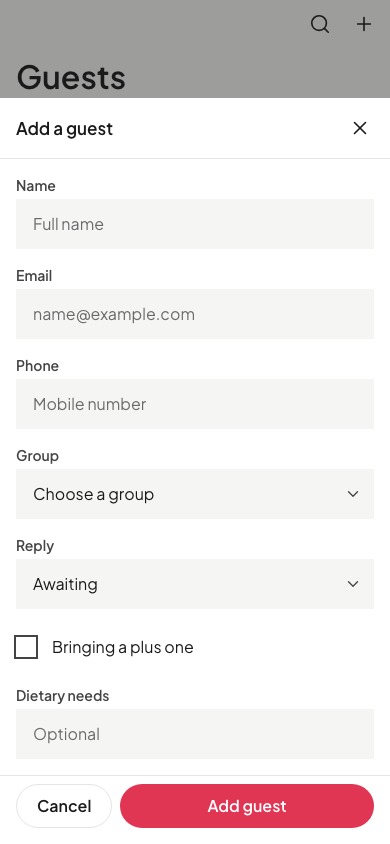
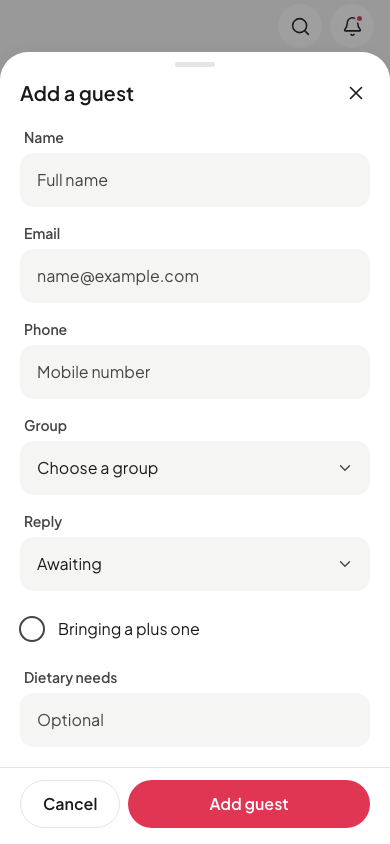
Mobile app goal 2, phase 6: fifty fresh screenshots, the coverage table, and the checks
mobile-screenshots/ is replaced with fifty 390x844 captures of every preview
screen, including the notification centre, the in-app banner over Home and
the push lock screen; the capture script now also fails on any box-shadow
other than the elevation token. MOBILE_APP.md gains the goal 2 section:
the coverage table with a mobile home for every desktop couple feature,
the image inventory with every public id and where it is used, the
notification architecture and what real push will need, the stubs, and
the decisions. Final scans over src/mobile: no uppercase, no emoji beyond
the Ava mark, no em dashes, no exclamation marks in copy, no gradient but
the photo scrim, no shadow but the token, no font but Plus Jakarta Sans,
no text lighter than #444444 on a light surface (the input placeholder
moved from #6B6B6B to #444444), and every stylesheet selector scoped
under .oi-mobile-root. Build, lint and the route-collision guard pass;
git diff main touches only the allowed existing files.

diff --git a/src/mobile/features/registry.js b/src/mobile/features/registry.js
@@ -72,7 +72,7 @@ export const FEATURES = [
     stat: (d) => (d.details?.foodBeverage?.serviceStyle ? d.details.foodBeverage.serviceStyle : 'Plan the menu') },
   { key: 'music', group: 'style', label: 'Music', icon: Music2, desktop: '/Music', path: 'music', kind: 'custom', depth: 'full', image: STILLS.music,
     stat: (d) => { const p = (d.songRequests || []).filter((r) => !r.status || r.status === 'pending').length; return p ? `${p} to review` : count(d.music, 'track'); } },
-  { key: 'photography', group: 'style', label: 'Photography', icon: Camera, desktop: '/Photography', path: 'photography', kind: 'details', depth: 'light',
+  { key: 'photography', group: 'style', label: 'Photography', icon: Camera, desktop: '/Photography', path: 'photography', kind: 'details', depth: 'light', image: STILLS.couple,
     stat: (d) => { const b = (d.vendors || []).filter((v) => ['photography', 'videography'].includes(v.category) && v.status === 'booked').length; return b ? `${b} booked` : 'Find a photographer'; } },
   { key: 'vows', group: 'style', label: 'Vows & speeches', icon: FileText, desktop: '/VowsSpeeches', path: 'vows', kind: 'entity', depth: 'full',
     stat: (d) => count(d.vows, 'draft') },
@@ -81,7 +81,7 @@ export const FEATURES = [
   // Vendors
   { key: 'vendors', group: 'vendors', label: 'My vendors', icon: Store, desktop: '/Vendors', path: 'vendors', kind: 'entity', depth: 'full',
     stat: (d) => { const b = (d.vendors || []).filter((v) => v.status === 'booked').length; return `${b} booked of ${n(d.vendors)}`; } },
-  { key: 'marketplace', group: 'vendors', label: 'Marketplace', icon: ShoppingBag, desktop: '/VendorMarketplace', path: 'marketplace', kind: 'custom', depth: 'light', stat: () => 'Search near you' },
+  { key: 'marketplace', group: 'vendors', label: 'Marketplace', icon: ShoppingBag, desktop: '/VendorMarketplace', path: 'marketplace', kind: 'custom', depth: 'light', image: STILLS.dance, stat: () => 'Search near you' },
   // On the day
   { key: 'ceremony', group: 'day', label: 'Ceremony details', icon: Heart, desktop: '/ceremony-details', path: 'ceremony', kind: 'details', depth: 'full', image: STILLS.ceremony,
     stat: (d) => (d.details?.celebrant?.name ? `With ${d.details.celebrant.name}` : 'Add your celebrant') },
@@ -94,7 +94,7 @@ export const FEATURES = [
   // Finances
   { key: 'budget', group: 'finances', label: 'Budget', icon: Wallet, desktop: '/Budget', path: 'budget', kind: 'custom', depth: 'full',
     stat: (d, symbol) => { const spent = (d.budget || []).reduce((s, i) => s + (i.actual_amount || 0), 0); const total = d.details?.budget?.total ? Number(d.details.budget.total) : (d.budget || []).reduce((s, i) => s + (i.budgeted_amount || 0), 0); return total ? `${money(total - spent, symbol)} left` : 'Set a total'; } },
-  { key: 'registry', group: 'finances', label: 'Registry', icon: Gift, desktop: '/Registry', path: 'registry', kind: 'custom', depth: 'full',
+  { key: 'registry', group: 'finances', label: 'Registry', icon: Gift, desktop: '/Registry', path: 'registry', kind: 'custom', depth: 'full', image: STILLS.gifts,
     stat: (d) => { const g = n(d.gifts); return g ? `${g} received` : `${n(d.registryItems) + n(d.registryProducts) + n(d.customGifts)} listed`; } },
   // Guest suite
   { key: 'studio', group: 'suite', label: 'Design studio', icon: Sparkles, desktop: '/studio', path: '../site', kind: 'custom', depth: 'view', stat: (d) => (d.details?.websiteEnabled ? 'Site is live' : 'Site is a draft') },

diff --git a/src/mobile/MobilePreviewApp.jsx b/src/mobile/MobilePreviewApp.jsx
@@ -262,7 +262,7 @@ function PreviewAccount() {
   const { base } = useContext(ShellContext);
   const [params] = useSearchParams();
   const native = params.get('native') === '1';
-  return <AccountScreen name={FIXTURE_USER.full_name} email={FIXTURE_USER.email} coupleName={`${FIXTURE_WEDDING.couple1Name} & ${FIXTURE_WEDDING.couple2Name}`} weddingDate={dateLong(FIXTURE_WEDDING.weddingDate)} photo={coupleImages(FIXTURE_WEDDING)[1]} planLabel="Pro" planNote={null} trialDaysLeft={null} showPurchases={!native} onUpgrade={() => {}} onDetails={() => {}} onEventDetails={() => navigate(`${base}/plan/event-details`)} onCollaborators={() => {}} onNotifications={() => {}} onNotificationSettings={() => navigate(`${base}/notifications/settings`)} onHelp={() => {}} onContact={() => {}} onLogout={() => {}} loading={false} />;
+  return <AccountScreen name={FIXTURE_USER.full_name} email={FIXTURE_USER.email} coupleName={`${FIXTURE_WEDDING.couple1Name} & ${FIXTURE_WEDDING.couple2Name}`} weddingDate={dateLong(FIXTURE_WEDDING.weddingDate)} photo={coupleImages(FIXTURE_WEDDING)[0]} planLabel="Pro" planNote={null} trialDaysLeft={null} showPurchases={!native} onUpgrade={() => {}} onDetails={() => {}} onEventDetails={() => navigate(`${base}/plan/event-details`)} onCollaborators={() => {}} onNotifications={() => {}} onNotificationSettings={() => navigate(`${base}/notifications/settings`)} onHelp={() => {}} onContact={() => {}} onLogout={() => {}} loading={false} />;
 }
 
 function PreviewSearch() {

diff --git a/src/mobile/screens/account/AccountScreen.jsx b/src/mobile/screens/account/AccountScreen.jsx
@@ -17,7 +17,7 @@ export default function AccountScreen({ name, email, coupleName, weddingDate, ph
           <div className="oi-m-card oi-m-card--flush">
             <div style={{ position: 'relative', aspectRatio: '16 / 9', background: 'var(--m-ink)' }}>
               <SmartImage src={photo} alt="" width={360} ratio="16/9" square eager tone="ink" />
-              <div className="oi-m-hero__scrim" />
+              <div className="oi-m-hero__scrim" style={{ background: 'linear-gradient(to top, rgba(26,26,26,0.92) 0%, rgba(26,26,26,0.45) 55%, rgba(26,26,26,0.05) 100%)' }} />
               <div style={{ position: 'absolute', left: 16, bottom: 14, color: '#FFFFFF' }}>
                 <div className="oi-m-hero__title" style={{ fontSize: 24, lineHeight: '30px' }}>{coupleName || name || 'Your wedding'}</div>
                 {weddingDate && <div className="oi-m-hero__label">{weddingDate}</div>}

diff --git a/src/mobile/styles/mobile.css b/src/mobile/styles/mobile.css
@@ -426,6 +426,7 @@
 
 /* ── Grids and tiles ────────────────────────────────────────────────── */
 .oi-m-grid2 { display: grid; grid-template-columns: 1fr 1fr; gap: 12px; }
+.oi-m-grid2 > * { min-width: 0; }
 .oi-m-tile {
   position: relative;
   background: var(--m-card);
@@ -513,7 +514,7 @@
 }
 .oi-m-input:focus { border-color: var(--m-text); background: var(--m-card); }
 .oi-m-input--error { border-color: var(--m-primary); }
-.oi-m-input::placeholder { color: #6B6B6B; }
+.oi-m-input::placeholder { color: var(--m-text-2); opacity: 1; }
 textarea.oi-m-input { min-height: 104px; resize: vertical; }
 select.oi-m-input { background-image: none; padding-right: 44px; }
 .oi-m-field__error { font-size: 14px; line-height: 20px; color: var(--m-primary); padding-left: 4px; }

diff --git a/src/mobile/ui/SearchScreen.jsx b/src/mobile/ui/SearchScreen.jsx
@@ -19,7 +19,7 @@ export default function SearchScreen({ open, onClose, value, onChange, placehold
           <Search size={18} strokeWidth={1.75} style={{ color: 'var(--m-text-2)', flexShrink: 0 }} />
           <input ref={ref} className="oi-m-search__input" type="search" value={value} onChange={(e) => onChange(e.target.value)} placeholder={placeholder} autoComplete="off" autoCorrect="off" autoCapitalize="off" enterKeyHint="search" />
           {value && (
-            <button type="button" className="oi-m-iconbtn oi-m-iconbtn--ghost" onClick={() => onChange('')} aria-label="Clear" style={{ width: 40, height: 40 }}>
+            <button type="button" className="oi-m-iconbtn oi-m-iconbtn--ghost" onClick={() => onChange('')} aria-label="Clear">
               <X size={18} strokeWidth={1.75} />
             </button>
           )}

diff --git a/src/mobile/screens/home/HomeScreen.jsx b/src/mobile/screens/home/HomeScreen.jsx
@@ -78,7 +78,7 @@ export default function HomeScreen({
             <div className="oi-m-section-head"><h2 className="oi-m-section">Keep planning</h2></div>
             <div style={{ margin: '0 calc(-1 * var(--m-gutter))' }}>
               <PeekCarousel size="narrow" dots={false}>
-                {keepPlanning.map((f) => <ImageCard key={f.key} image={f.image || img(4)} alt={f.label} title={f.label} line={f.line} onClick={() => onOpenFeature?.(f.key)} width={240} />)}
+                {keepPlanning.map((f, i) => <ImageCard key={f.key} image={f.image || img(4 + i)} alt={f.label} title={f.label} line={f.line} onClick={() => onOpenFeature?.(f.key)} width={240} />)}
               </PeekCarousel>
             </div>
           </section>

diff --git a/src/mobile/notifications/PushPreview.jsx b/src/mobile/notifications/PushPreview.jsx
@@ -53,7 +53,7 @@ export default function PushPreview() {
         </div>
       </div>
       <div style={{ position: 'absolute', top: 'calc(env(safe-area-inset-top, 0px) + 10px)', right: 12, display: 'flex', gap: 8 }}>
-        <button type="button" className="oi-m-status oi-m-status--light" onClick={() => navigate('/m/preview?banner=1')} style={{ border: 0, cursor: 'pointer', padding: '6px 12px' }}>Show the in-app banner</button>
+        <button type="button" data-preview-control className="oi-m-pill oi-m-pill--light oi-m-pill--sm" onClick={() => navigate('/m/preview?banner=1')}>Show the in-app banner</button>
       </div>
     </div>
   );

diff --git a/MOBILE_APP.md b/MOBILE_APP.md
@@ -55,6 +55,144 @@ Scope column: **v0** = built as a mobile screen; **row** = reachable from a mobi
 
 `/m` collides with nothing. Existing routes starting with `m` are `/mocks/universe/{a,b,c}` (a different first segment). Guest sites are `/w/:slug`, RSVP is `/rsvp/:token`, games `/games/:token/:id`. `isPublicPath()` in `App.jsx` does not match `/m`, so `/m/*` falls through to the authenticated `Routes`, which is where it is registered. `/m/preview/*` is registered next to `/login` (outside the guard), and only when `import.meta.env.DEV`.
 
+## Goal 2: design uplift, full coverage, notifications
+
+Built on the same branch after v0. The mobile design language is in
+`src/mobile/DESIGN_MOBILE.md`; this section records what changed, where every
+feature lives now, the images in use, and how notifications work.
+
+### Coverage: every desktop couple feature has a mobile home
+
+Depth: **full** = list, detail, add, edit and delete through the existing
+mutations; **light** = read everything, edit the simple fields; **view** = read
+here, edit on desktop, with a note. No row is "not in app". `/m/plan` is the hub
+and mirrors the desktop sidebar's groups and names exactly.
+
+| Sidebar group | Desktop route | Mobile location | Depth | How |
+|---|---|---|---|---|
+| Planning | `/DailyUpdate` Daily update | `/m` (Home) | full | hero carousel, stats, next up, keep planning, from Ava, latest |
+| Planning | `/event-details` Event details | `/m/plan/event-details` | full | form over WeddingDetails, auto-saves |
+| Planning | `/Schedule` Schedule | `/m/plan/schedule` | full | list, detail, add, edit, delete over Schedule |
+| Planning | `/TodoList` To do | `/m/plan/checklist` | full | grouped list, tap to complete, add sheet, over Note |
+| Guests | `/Guests` Guest list | `/m/guests` | full | replies card, filters, search, detail, add and edit sheet, remove |
+| Guests | `/Polls` Polls & games | `/m/plan/polls` | full | polls with live counts, create, end; on WeddingDetails.polls as Polls.jsx keeps them |
+| Guests | `/Messages` Messages | `/m/plan/messages` | full | conversation list, thread, composer pinned above the keyboard, reply through /api/send-guest-reply, read state on GuestMessage |
+| Guests | `/Seating` Seating | `/m/plan/seating` | view | tables and who sits where as lists; move a guest through a sheet over assignGuestToTableByName / unassignGuestFromTables; layout stays on desktop |
+| Guests | `/wedding-party` Wedding party | `/m/plan/wedding-party` | full | roles as sections, add, edit, remove; WeddingDetails.weddingParty |
+| Guests | `/SendInvites` Send invites | `/m/plan/send-invites` | view | hand-off screen with a note |
+| Guests | `/Invitations` Invitations | `/m/plan/invitations` | view | hand-off screen with a note |
+| Style & experience | `/Moodboard` Moodboard | `/m/plan/moodboard` | full | photo grid, add, edit, delete over MoodboardItem |
+| Style & experience | `/Styling` Styling | `/m/plan/styling` | light | form over WeddingDetails.flowers and .decorations |
+| Style & experience | `/Beauty` Beauty | `/m/plan/beauty` | light | form over WeddingDetails.beauty |
+| Style & experience | `/FoodBeverage` Food & beverage | `/m/plan/food` | light | form over WeddingDetails.foodBeverage |
+| Style & experience | `/Music` Music | `/m/plan/music` | full | playlist over Music (add, edit, delete); guest requests approved or declined through /api/song-request-review; the Spotify playlist link |
+| Style & experience | `/Photography` Photography | `/m/plan/photography` | light | form over WeddingDetails.photography |
+| Style & experience | `/VowsSpeeches` Vows & speeches | `/m/plan/vows` | full | list, add, edit, delete over VowSpeech |
+| Style & experience | `/wedding-favours` Guest gifts | `/m/plan/favours` | light | form over WeddingDetails.weddingFavours |
+| Vendors | `/Vendors` My vendors | `/m/plan/vendors` | full | filters, list, add, edit, delete over Vendor |
+| Vendors | `/VendorMarketplace` Marketplace | `/m/plan/marketplace` | light | category and location search through /api/places-search; add to my vendors through saveVendorFromPlaces |
+| On the day | `/ceremony-details` Ceremony details | `/m/plan/ceremony` | full | form; celebrant and licence through the encrypted PUT, the rest plaintext, as CeremonyDetails.jsx splits them |
+| On the day | `/transport` Transport | `/m/plan/transport` | light | form plus a shuttles list; WeddingDetails.transport |
+| On the day | `/accommodation` Accommodation | `/m/plan/accommodation` | light | form plus a places list; WeddingDetails.accommodation |
+| On the day | `/emergency-contact` Emergency contact | `/m/plan/emergency` | full | form through the encrypted PUT; WeddingDetails.emergencyContacts |
+| Finances | `/Budget` Budget | `/m/plan/budget` | full | spent, paid, still to pay, next payment due, categories, category detail, add and edit expense with a payment date, over Budget |
+| Finances | `/Registry` Registry | `/m/plan/registry` | full | four lists (registry links, products, cash funds, received gifts) over RegistryItem, RegistryProduct, CustomGift, ReceivedGift |
+| Guest suite | `/studio` Design studio | `/m/site` | view | site preview, live status, view and share; the builder and Ava studio hand off to desktop |
+| Guest suite | `/GuestSuiteSchedule` Schedule | `/m/plan/suite-schedule` | view | the same Schedule records as guests see them; edit link into the schedule |
+| Guest suite | `/QandA` Q&A | `/m/plan/qna` | full | questions and answers, add, edit, remove; WeddingDetails.qna |
+| Guest suite | `/GuestSuiteRegistry` Registry | `/m/plan/registry` | full | the same registry screen |
+| Guest suite | `/GuestSuiteAccommodation` Accommodation | `/m/plan/suite-accommodation` | light | places list, add by hand, edit, remove; WeddingDetails.guestSuiteAccommodation.places; nearby search stays on desktop |
+| Guest suite | `/GuestSuiteTransport` Transport | `/m/plan/suite-transport` | light | as above over guestSuiteTransport.places |
+| Guest suite | `/GuestSuiteExperience` Experience guide | `/m/plan/experience` | light | the couple's picks; WeddingDetails.experienceGuide.couplePicks |
+| Guest suite | `/GuestSuitePolicies` Good to know | `/m/plan/good-to-know` | full | a switch and a note per policy; WeddingDetails.weddingPolicies |
+| Guest suite | `/GuestSuitePolls` Guest polls | `/m/plan/polls` | full | the same polls screen |
+| Extras | `/honeymoon` Honeymoon | `/m/plan/honeymoon` | light | form over WeddingDetails.honeymoonDetails |
+| Extras | `/Considerations` Considerations | `/m/plan/considerations` | view | hand-off screen with a note (its content is computed inside the desktop page and not exported) |
+| Account | `/account` | `/m/account` | full | profile card, rows; purchases hidden natively |
+| Account | `/help`, `/Contact` | rows on `/m/account` | view | hand off to desktop |
+
+Not a feature, so not a row: the guestbook. `GuestbookEntry` exists as an entity but the guestbook page was retired from the guest site (`WeddingWebsiteNav.jsx` filters the slug out). The notification feed still reads any entries that exist; nothing new can be written.
+
+### The design, in one paragraph
+
+Cards 20px, images 16px, inputs 14px, sheets 28px on top, pills and buttons 999px, icon buttons circular. No shadow on cards; one elevation (`0 8px 24px rgba(0,0,0,0.08)`) on the floating tab bar, the Ava button, the in-app banner and bottom sheets. Page #F5F5F4, card #FFFFFF, text #1A1A1A and #444444, primary #E03553 flat, emphasis panels ink / wine / blush / sand. Titles 34/40, hero numbers 56/56 tabular, sections 22/28, body 16/24, meta 14/20, all weight 600 at most. Press scales to 0.98 in 120ms, screens stagger in 40ms per block, hero numbers count up once, progress bars animate, the hero photo parallaxes up to 12px, carousels snap, haptics on tab change, task completion and pull to refresh. `prefers-reduced-motion` keeps only fades. The full statement is `src/mobile/DESIGN_MOBILE.md`.
+
+### Image inventory
+
+Order of preference on every slot: the couple's own imagery (`coverPhoto`, then photo blocks in `homeContent.blocks`, then `ourStoryContent.photos`), then the sample content of their universe (`getSampleWedding(id)`), then a colour panel. `SmartImage` never renders a broken or empty box. Stills only: nothing animates an image whose public id starts with `DTS_`; the scroll parallax on a static hero is the only motion.
+
+Cloudinary delivery: `f_auto,q_auto,c_fill,g_auto,w_<slot x dpr>,h_<slot x dpr>` for 2x and 3x, from `src/mobile/lib/images.js`.
+
+Public ids used by the app itself (all already served on the marketing site or the universes page; none invented), keyed by the feel the slot wants:
+
+| Key | Public id | Used where |
+|---|---|---|
+| couple | `DTS_Like_a_Movie_Foster___Asher_Photos_ID1042_qaddk3` | Event details tile, Photography tile, fixture Our Story |
+| guests | `DTS_Slices_of_Summer_Mark_La_Montagne_Photos_ID2661_vb5omq` | Guest list tile, fixture cover photo |
+| dinner | `v1779185603/DTS_Fine_Dining_Patrick_Chin_Photos_ID955_uoaegj` | Food & beverage tile |
+| dance | `DTS_NU_NUPTIALS_Shauna_Summers_Photos_ID10310_o5dcie` | Marketplace tile, fixture Our Story |
+| flowers | `DTS_Natural_Beauty_Rob_Christain_Crosby_Photos_ID2680_fnyjzd` | Styling tile, fixture moodboard |
+| travel | `v1779185631/DTS_Early_Honey_Moon_Tino_Renato_Photos_ID3576_v8vxs0` | Honeymoon tile |
+| ceremony | `DTS_Tradition_Chris_Abatzis_Photos_ID9150_yiunlp` | Ceremony tile, fixture Our Story |
+| party | `DTS_BANDITS_PALI_MENDEZ_Photos_ID14229_mhwb5h` | Wedding party tile |
+| table | `DTS_Grand_Design_Daniel_Far%C3%B2_Photos_ID4152_auimyj` | Seating tile, fixture moodboard |
+| style | `DTS_DECADENT_Debora_Spanhol_Photos_ID12475_viqbsz` | Moodboard tile, fixture moodboard |
+| beauty | `DTS_MOTHERLY_Shauna_Summers_Photos_ID10728_vz25fa` | Beauty tile |
+| music | `DTS_PLAYER_TWO_JELLY_LUISE_Photos_ID13458_a53qq3` | Music tile |
+| stay | `DTS_Please_Do_Not_Disturb_Fanette_Guilloud_Photos_ID8854_xted4d` | Accommodation tile |
+| gifts | `DTS_SUITE_TALK_PALI_MENDEZ_Photos_ID14166_tqzysj` | Guest gifts tile, Registry tile |
+
+Every id above was checked to resolve at `f_auto,q_auto,c_fill,g_auto,w_100,h_100` on 2026-09-21. Per-universe sample photos come through `src/lib/sampleContent/*` unchanged. The push preview's wallpaper and the Account profile photo are the couple's first image. `/favicon.svg` is the app icon on the lock screen mock.
+
+### Notifications
+
+**Architecture.** One hook, `src/mobile/notifications/useNotifications.js`, with the interface the screens see: `items, unread, loading, error, reload, markAllRead, markRead, settings, setSettings, latestUnseen, bannerShown`. It merges two sources:
+
+1. The `Notification` entity that already exists and that three endpoints write (`rsvp_received` from `api/rsvp-submit.js`, `collaborator_joined` from `api/collaborator-accept.js`, `questionnaire_answered` from `api/questionnaire-answer-submit.js`). Its own `read` flag is the read state for those rows, updated through `Notification.update`, as `src/lib/useNotifications.js` does for the desktop bell.
+2. A feed derived client-side in `feed.js` from data the app already loads: replies from the guest list (`rsvp_date`), guest messages, song requests still pending, poll votes grouped per poll per day, received gifts, tasks due within three days or overdue within thirty, unpaid budget items with a payment date within a week, and one briefing line a day. Read state for these is a last-seen timestamp plus dismissed ids, stored with Capacitor Preferences natively and localStorage on the web (`store.js`).
+
+The feed is capped to the last thirty days and sixty items. Types the couple has switched off in settings are filtered out of the feed, so the bell, the centre and the banner agree. A real notifications table later replaces `load()` in the hook and nothing else.
+
+**Surfaces.** The bell (top right on every tab root, unread dot), the centre at `/m/notifications` (Today / This week / Earlier, mark all as read, empty state), settings at `/m/notifications/settings` (a toggle per group and quiet hours), the in-app banner (drops from the top when a new unread item arrives while the app is open and the centre is not on screen; four seconds; swipe to dismiss; tap to open), and Home's "Latest" rows.
+
+**Copy.** `src/mobile/notifications/copy.ts` is the catalogue: one template per type, titles under 40 characters, bodies under 90, clipped at word boundaries. The push preview and the in-app centre use the same function.
+
+**Settings are local.** The toggles and quiet hours are saved on the device and shape what the app shows. They are not connected to push, because there is no push yet. The settings screen says so.
+
+**Push preview.** `/m/preview/push` (dev only) is a design artefact: an iOS lock screen with the couple's photo as wallpaper, six Openinvite notifications from the real catalogue, one expanded with Open / Later, one grouped stack that expands on tap, and a button to the in-app banner state (`/m/preview?banner=1`). It sends nothing.
+
+**What real push needs** (not done in this run, by design):
+
+1. A notifications table with a device-scoped read state, replacing the derived feed: `type, title, body, link, recipient_user_id, read, created_date` is already the shape of the `Notification` entity, so extending its writers is the smaller step.
+2. A server-side trigger or function to fan out: every place that today writes a `Notification` row, plus the events the feed derives now (new guest message, song request, poll vote, gift, task due, payment due, the morning briefing), calling APNs and FCM.
+3. Device token storage: a field or small entity keyed by user and platform, written by the app after registration. This is a schema change and needs a decision.
+4. An APNs key (.p8) and an FCM project, with the iOS entitlement and the Android google-services file in the native projects.
+5. `@capacitor/push-notifications` registration in `native.ts`, behind `isNative()`.
+6. Permission prompt timing: ask after the first RSVP arrives, not on first launch.
+
+### Global search
+
+`/m/search` (the magnifier on Home and Plan) searches guests by name and email, tasks by title, vendors by name and category, and features by name, over the same loaded data as the hub.
+
+### Stubs, skips and blockers added in goal 2
+
+1. **Considerations** is a hand-off only. Its content is a list computed inside `src/pages/Considerations.jsx` from the couple's profile and is not exported, so the app cannot render it without editing that page.
+2. **Seating** adds and moves guests between existing tables; creating a table, changing capacity and the canvas stay on desktop. `assignGuestToTableByName` creates a table when the name is new, so a typed name would work, but the sheet offers existing tables only, on purpose.
+3. **Marketplace** results carry name, rating, address and website; Google photos and the vendor profile modal stay on desktop. Saving uses `saveVendorFromPlaces(vendor, null)`, which files the vendor under the searched category.
+4. **Photos and media**: there is no photos page in the desktop sidebar, so there is no mobile screen. The `Photo` entity is read by Moodboard on desktop only.
+5. **Pull to refresh** is on Home and Guests. The other lists expose `reload` and could take it in one line each.
+6. **Guest suite places** are edited by hand (name, address, note, website). The desktop pages also search Google Places and attach a photo reference; the mobile screen keeps whatever the desktop attached and links to it for search.
+7. **The Ava pod** still navigates to desktop routes from its action cards (see the v0 decision).
+8. **`window.confirm`** is still used for destructive confirms in the generic list screen, as on desktop.
+9. **Polls** show vote counts from `PollVote` rows plus any counts stored on the poll option; comments and Ava insights stay on desktop.
+10. **The notification feed's reply detection** relies on `Guest.rsvp_date`, which the RSVP endpoint sets; guests whose reply predates that field show under "Earlier" or not at all.
+
+### Needs a decision (goal 2 additions)
+
+- **Device tokens for push** need somewhere to live (a field on `User`, or a `DeviceToken` entity). Schema change; not made here.
+- **Fan-out for the derived notification types.** The desktop only writes `Notification` rows for RSVPs, collaborators and questionnaires. Messages, song requests, poll votes, gifts and due dates would need server-side writers before push can carry them.
+- **`eslint.config.js`** still does not include `src/mobile/**`; the `.ts` files (`native.ts`, `copy.ts`) are outside the current parser config too.
+
 ## How to run
 
 **Preview (no sign-in, fixture data, dev only)**
@@ -65,15 +203,20 @@ open http://localhost:5173/m/preview
 ```
 
 Tabs: `/m/preview`, `/m/preview/guests`, `/m/preview/plan`, `/m/preview/site`,
-`/m/preview/account`. Deep screens: `/m/preview/guests/g3`,
-`/m/preview/plan/budget/catering`. Query flags: `?state=loading`, `?state=empty`,
-`?state=error` on any screen; `?add=1` opens the add sheet on Guests and Plan;
-`?segment=budget|timeline|vendors` on Plan; `?native=1` on Account shows the
-no-purchases variant. Everything is local state; nothing is written.
+`/m/preview/account`. Every feature: `/m/preview/plan/<key>` for each key in
+`src/mobile/features/registry.js` (for example `checklist`, `budget`,
+`messages`, `seating`, `music?segment=requests`, `registry?segment=received`,
+`ceremony`, `good-to-know`). Also `/m/preview/search`, `/m/preview/notifications`,
+`/m/preview/notifications/settings`, and the lock screen at `/m/preview/push`.
+Query flags: `?state=loading`, `?state=empty`, `?state=error` on any screen;
+`?add=1` opens the add sheet; `?banner=1` on Home shows the in-app banner;
+`?native=1` on Account shows the no-purchases variant. Everything is local
+state; nothing is written.
 
 `npm run mobile:screenshots` (with the dev server up; set `BASE` if it is not on
-5173) recaptures `mobile-screenshots/` and fails if any screen is wider than the
-viewport, has a tap target under 44px, or an input under 16px.
+5173) recaptures the fifty screens in `mobile-screenshots/` and fails if any
+screen is wider than the viewport, has a tap target under 44px, an input under
+16px, or a box-shadow other than the elevation token.
 
 **The real thing on the web**
 
